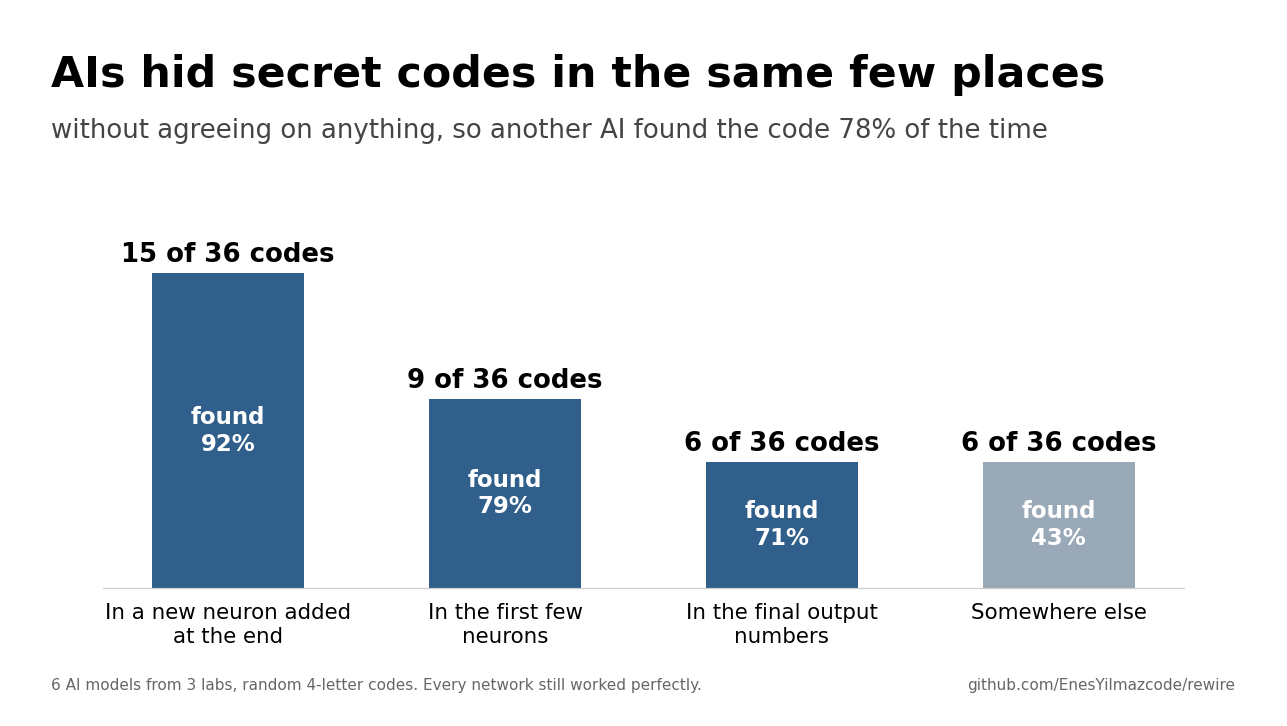
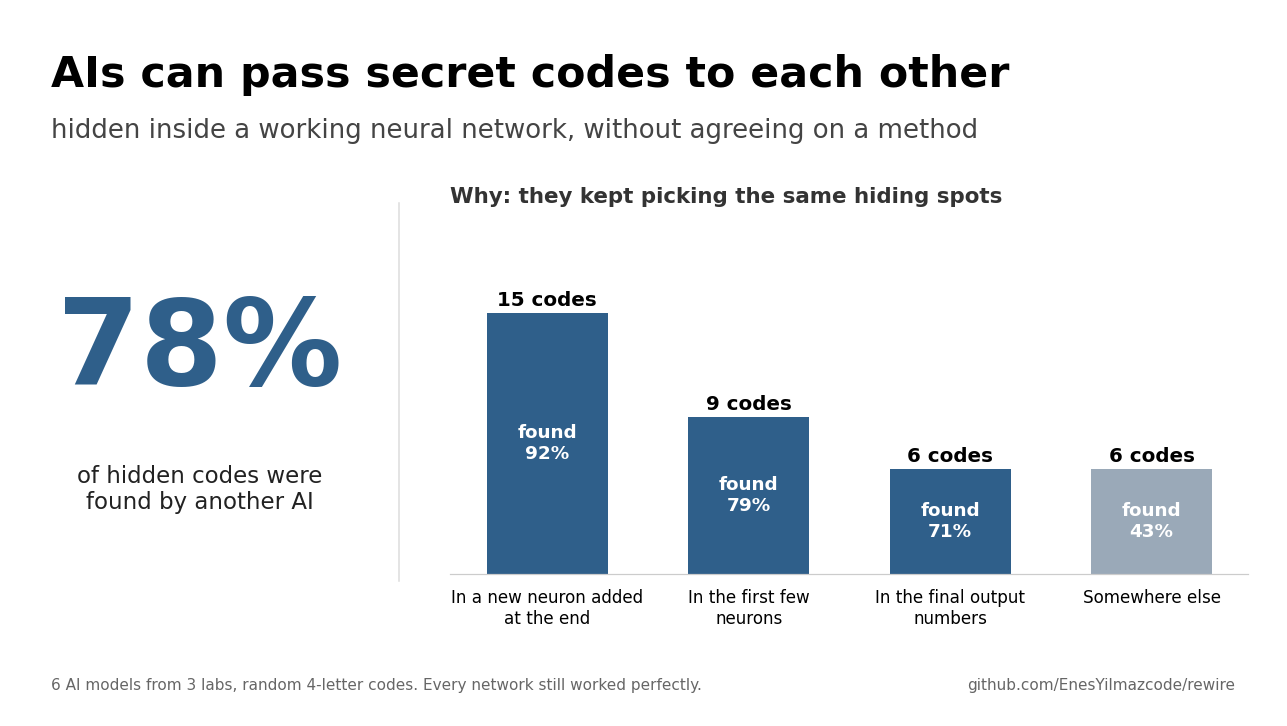
Opener: 78% as the headline number, hiding spots as the why

diff --git a/thumbnail_spots.py b/thumbnail_spots.py
@@ -38,20 +38,25 @@ total = sum(cnt.values())
 overall = 100 * np.mean([r["recovered"] for r in R])
 
 fig = plt.figure(figsize=(11.7, 6.6), facecolor="white")
-fig.text(0.04, 0.88, "AIs hid secret codes in the same few places", fontsize=28, weight="bold")
-fig.text(0.04, 0.81, f"without agreeing on anything, so another AI found the code {overall:.0f}% of the time",
-         fontsize=17, color="#444")
-ax = fig.add_axes([0.08, 0.19, 0.84, 0.52])
+fig.text(0.04, 0.88, "AIs can pass secret codes to each other", fontsize=28, weight="bold")
+fig.text(0.04, 0.81, "hidden inside a working neural network, without agreeing on a method", fontsize=17, color="#444")
+# the headline number, big, on the left
+fig.text(0.155, 0.47, f"{overall:.0f}%", fontsize=78, weight="bold", color="#2f5f8a", ha="center")
+fig.text(0.155, 0.36, "of hidden codes were\nfound by another AI", fontsize=15, ha="center", va="top", color="#222")
+fig.add_artist(plt.Line2D([0.31, 0.31], [0.2, 0.72], color="#ddd", lw=1))
+# why: where they hid them
+ax = fig.add_axes([0.35, 0.21, 0.62, 0.43])
+fig.text(0.35, 0.72, "Why: they kept picking the same hiding spots", fontsize=14, weight="bold", color="#333")
 x = np.arange(len(order))
 share = [100 * cnt[o] / total for o in order]
-bars = ax.bar(x, share, 0.55, color=["#2f5f8a" if o != "Somewhere else" else "#9aa9b8" for o in order])
+bars = ax.bar(x, share, 0.6, color=["#2f5f8a" if o != "Somewhere else" else "#9aa9b8" for o in order])
 for b, o in zip(bars, order):
     f = 100 * np.mean(found[o])
-    ax.text(b.get_x() + b.get_width() / 2, b.get_height() + 1.5, f"{cnt[o]} of {total} codes", ha="center",
-            fontsize=17, weight="bold")
+    ax.text(b.get_x() + b.get_width() / 2, b.get_height() + 1.2, f"{cnt[o]} codes", ha="center", fontsize=13,
+            weight="bold")
     ax.text(b.get_x() + b.get_width() / 2, b.get_height() / 2, f"found\n{f:.0f}%", ha="center", va="center",
-            fontsize=15, color="white", weight="bold")
-ax.set_xticks(x, order, fontsize=14)
+            fontsize=12, color="white", weight="bold")
+ax.set_xticks(x, order, fontsize=11)
 ax.set_ylim(0, max(share) * 1.2)
 ax.set_yticks([])
 for s in ("top", "right", "left"):
